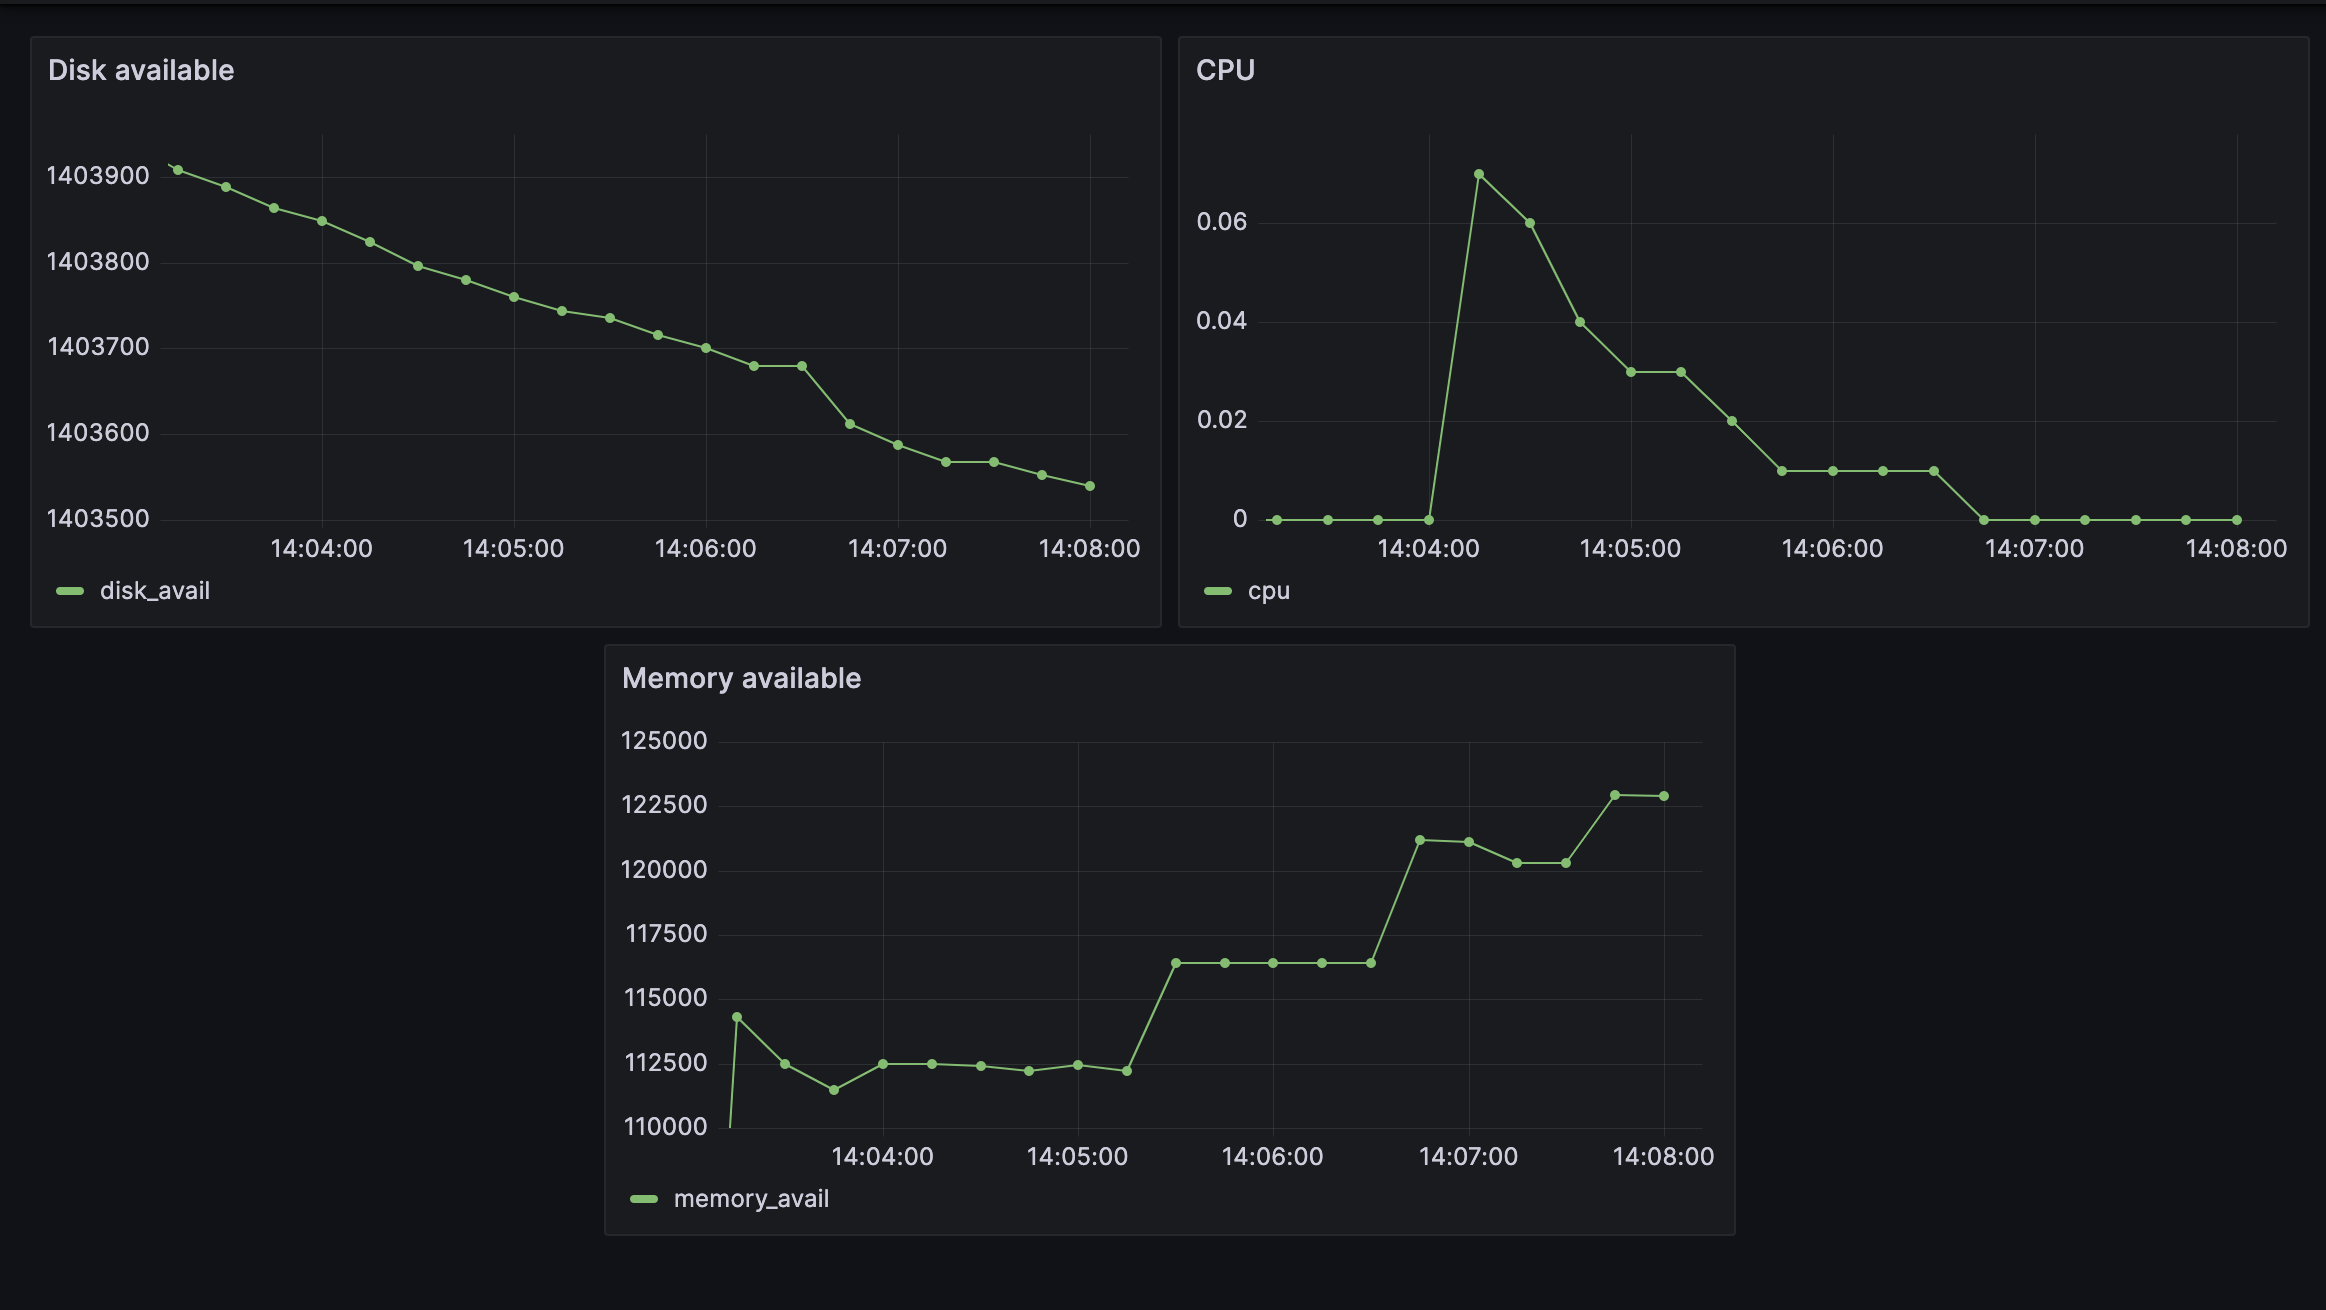
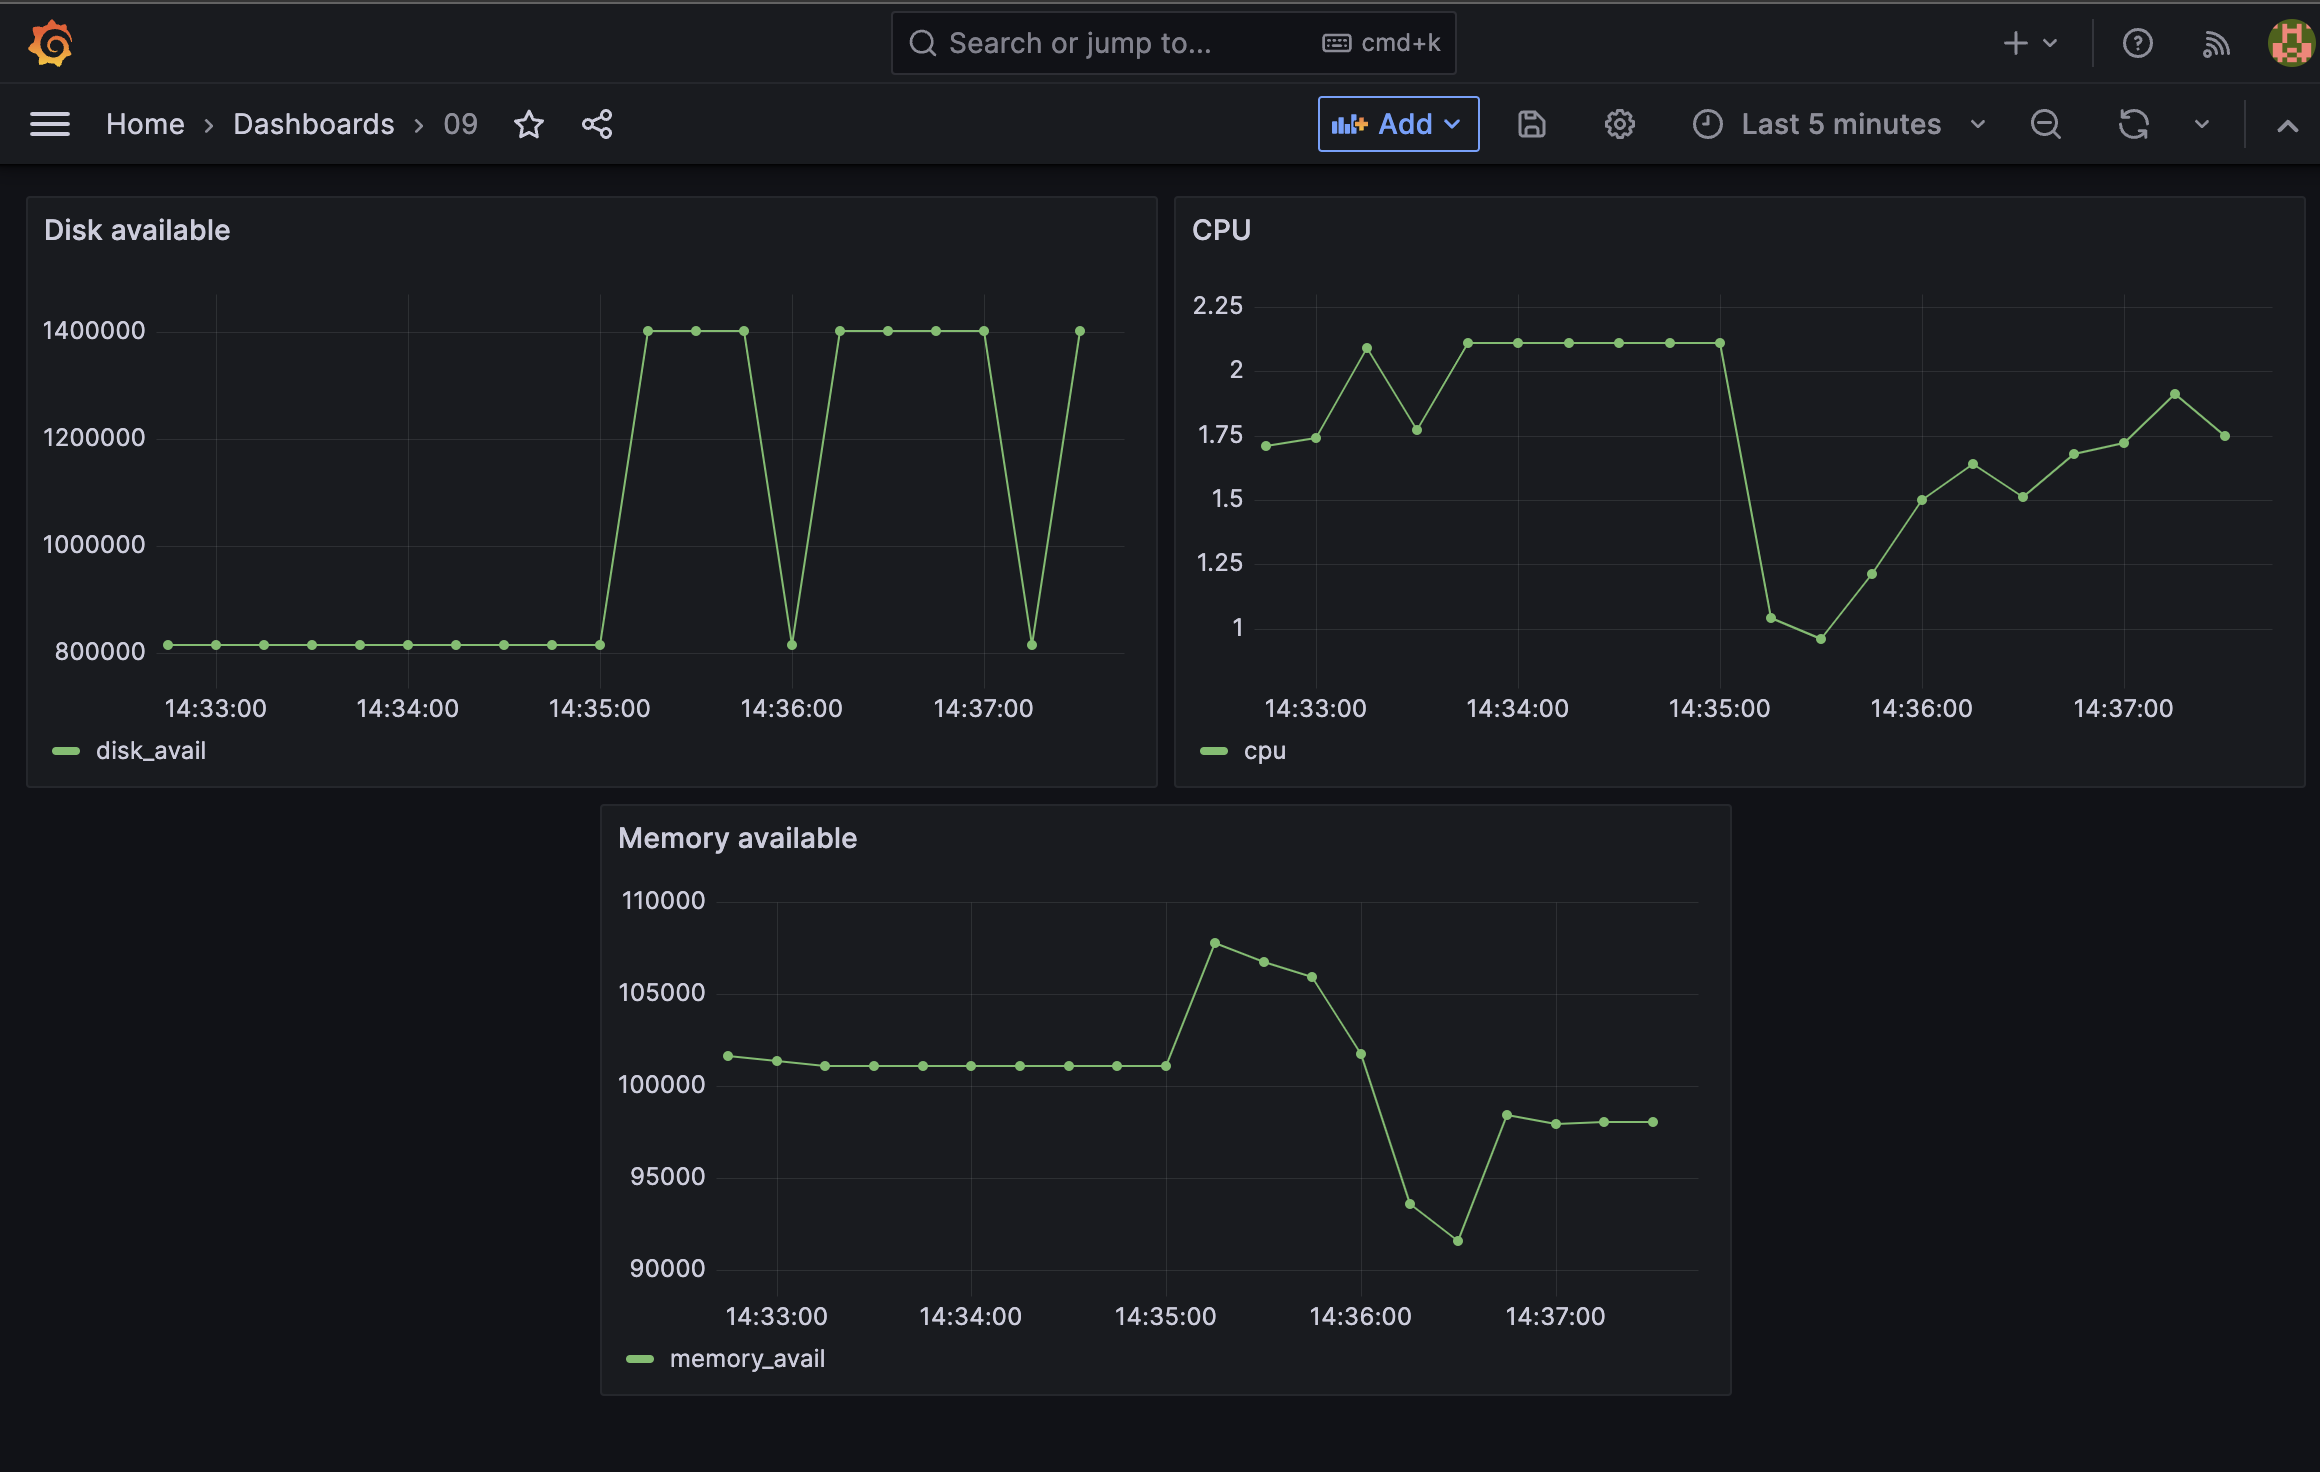
09 upd

diff --git a/src/09/9.html b/src/09/9.html
@@ -1,9 +1,9 @@
 # HELP cpu CPU info 1 min
 # TYPE cpu gauge
-cpu 0.00
+cpu 2.10
 # HELP memory_avail available RAM
 # TYPE memory_avail gauge
-memory_avail 120552
+memory_avail 97736
 # HELP disk_avail free disk space
 ## TYPE disk_avail gauge
-disk_avail 1402576
+disk_avail 1401156
